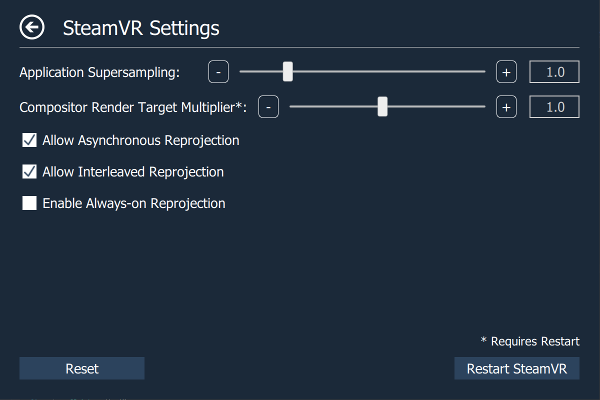
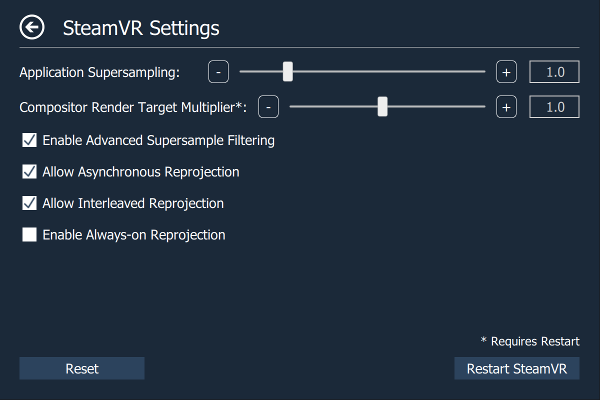
Fixed Restart SteamVR functionality (May crash the Steam overlay when SteamVR Home is running when you restart. Therefore I advice that you close SteamVR Home before restarting). Completely disabled sounds to see whether this fixes crashes some people are still experiencing. Added "Enable Advanced S

diff --git a/bin/win64/res/qml/SteamVRPage.qml b/bin/win64/res/qml/SteamVRPage.qml
@@ -40,7 +40,6 @@ MyStackViewPage {
                     steamvrSupersamplingText.text = val.toFixed(1)
                 }
                 onValueChanged: {
-                    console.debug("Supersampling Slider: valueChanged(", this.value, ")")
                     SteamVRTabController.setSuperSampling(this.value.toFixed(1), false)
                 }
             }
@@ -66,7 +65,6 @@ MyStackViewPage {
                         if (val < 0.1) {
                             val = 0.1
                         }
-                        console.debug("Supersampling TextField: valueChanged(", val, ")")
                         var v = val.toFixed(1)
                         if (v <= steamvrSupersamplingSlider.to) {
                             steamvrSupersamplingSlider.value = v
@@ -109,7 +107,6 @@ MyStackViewPage {
                     steamvrCompositorSupersamplingText.text = val.toFixed(1)
                 }
                 onValueChanged: {
-                    console.debug("Compositor Supersampling Slider: valueChanged(", this.value, ")")
                     SteamVRTabController.setCompositorSuperSampling(this.value.toFixed(1), false)
                 }
             }
@@ -136,7 +133,6 @@ MyStackViewPage {
                         if (val < 0.1) {
                             val = 0.1
                         }
-                        console.debug("Compositor Supersampling TextField: valueChanged(", val, ")")
                         var v = val.toFixed(1)
                         if (v <= steamvrCompositorSupersamplingSlider.to) {
                             steamvrCompositorSupersamplingSlider.value = v
@@ -146,6 +142,14 @@ MyStackViewPage {
                     }
                     text = SteamVRTabController.compositorSuperSampling.toFixed(1)
                 }
+            }
+        }
+
+        MyToggleButton {
+            id: steamvrAllowSupersampleFilteringToggle
+            text: "Enable Advanced Supersample Filtering"
+            onCheckedChanged: {
+                SteamVRTabController.setAllowSupersampleFiltering(this.checked, false)
             }
         }
 
@@ -217,6 +221,7 @@ MyStackViewPage {
                 steamvrCompositorSupersamplingSlider.value = s2
             }
             steamvrCompositorSupersamplingText.text = s2
+            steamvrAllowSupersampleFilteringToggle.checked = SteamVRTabController.allowSupersampleFiltering
             steamvrAllowInterleavedReprojectionToggle.checked = SteamVRTabController.allowInterleavedReprojection
             steamvrAllowAsyncReprojectionToggle.checked = SteamVRTabController.allowAsyncReprojection
             steamvrForceReprojectionToggle.checked = SteamVRTabController.forceReprojection
@@ -237,6 +242,9 @@ MyStackViewPage {
                     steamvrCompositorSupersamplingSlider.value = s2
                 }
                 steamvrCompositorSupersamplingText.text = s2
+            }
+            onAllowSupersampleFilteringChanged: {
+                steamvrAllowSupersampleFilteringToggle.checked = SteamVRTabController.allowSupersampleFiltering
             }
             onAllowInterleavedReprojectionChanged: {
                 steamvrAllowInterleavedReprojectionToggle.checked = SteamVRTabController.allowInterleavedReprojection

diff --git a/bin/win64/res/qml/MyResources.qml b/bin/win64/res/qml/MyResources.qml
@@ -5,19 +5,19 @@ import matzman666.advsettings 1.0
 
 QtObject {
 	function playActivationSound() {
-		if (!OverlayController.soundDisabled()) {
+		/*if (!OverlayController.soundDisabled()) {
 			activationSound.play()
-		}
+		}*/
 	}
 	function playFocusChangedSound() {
-		if (!OverlayController.soundDisabled()) {
+		/*if (!OverlayController.soundDisabled()) {
 			focusChangedSound.play()
-		}
+		}*/
 	}
-	property SoundEffect activationSound: SoundEffect {
+	/*property SoundEffect activationSound: SoundEffect {
 		source: vrRuntimePath + "content/panorama/sounds/activation.wav"
 	}
 	property SoundEffect focusChangedSound: SoundEffect {
 		source: vrRuntimePath + "content/panorama/sounds/focus_change.wav"
-	}
+	}*/
 }

diff --git a/src/tabcontrollers/SteamVRTabController.cpp b/src/tabcontrollers/SteamVRTabController.cpp
@@ -59,6 +59,11 @@ void SteamVRTabController::eventLoopTick() {
 			LOG(WARNING) << "Could not read \"" << vr::k_pch_SteamVR_ForceReprojection_Bool << "\" setting: " << vr::VRSettings()->GetSettingsErrorNameFromEnum(vrSettingsError);
 		}
 		setForceReprojection(fr);
+		auto sf = vr::VRSettings()->GetBool(vr::k_pch_SteamVR_Section, vrsettings_steamvr_allowSupersampleFiltering, &vrSettingsError);
+		if (vrSettingsError != vr::VRSettingsError_None) {
+			LOG(WARNING) << "Could not read \"" << vrsettings_steamvr_allowSupersampleFiltering << "\" setting: " << vr::VRSettings()->GetSettingsErrorNameFromEnum(vrSettingsError);
+		}
+		setAllowSupersampleFiltering(sf);
 		settingsUpdateCounter = 0;
 	} else {
 		settingsUpdateCounter++;
@@ -164,6 +169,25 @@ void SteamVRTabController::setForceReprojection(bool value, bool notify) {
 }
 
 
+bool SteamVRTabController::allowSupersampleFiltering() const {
+	return m_allowSupersampleFiltering;
+}
+
+
+void SteamVRTabController::setAllowSupersampleFiltering(bool value, bool notify) {
+	if (m_allowSupersampleFiltering != value) {
+		m_allowSupersampleFiltering = value;
+		vr::VRSettings()->SetBool(vr::k_pch_SteamVR_Section, vrsettings_steamvr_allowSupersampleFiltering, m_allowSupersampleFiltering);
+		vr::VRSettings()->Sync();
+		if (notify) {
+			emit allowSupersampleFilteringChanged(m_allowSupersampleFiltering);
+		}
+	}
+}
+
+
+
+
 void SteamVRTabController::reset() {
 	vr::EVRSettingsError vrSettingsError;
 
@@ -191,6 +215,11 @@ void SteamVRTabController::reset() {
 	vr::VRSettings()->RemoveKeyInSection(vr::k_pch_SteamVR_Section, vr::k_pch_SteamVR_ForceReprojection_Bool, &vrSettingsError);
 	if (vrSettingsError != vr::VRSettingsError_None) {
 		LOG(WARNING) << "Could not remove \"" << vr::k_pch_SteamVR_ForceReprojection_Bool << "\" setting: " << vr::VRSettings()->GetSettingsErrorNameFromEnum(vrSettingsError);
+	}
+
+	vr::VRSettings()->RemoveKeyInSection(vr::k_pch_SteamVR_Section, vrsettings_steamvr_allowSupersampleFiltering, &vrSettingsError);
+	if (vrSettingsError != vr::VRSettingsError_None) {
+		LOG(WARNING) << "Could not remove \"" << vrsettings_steamvr_allowSupersampleFiltering << "\" setting: " << vr::VRSettings()->GetSettingsErrorNameFromEnum(vrSettingsError);
 	}
 
 	vr::VRSettings()->Sync();

diff --git a/src/tabcontrollers/SteamVRTabController.h b/src/tabcontrollers/SteamVRTabController.h
@@ -8,6 +8,7 @@
 //static const char* vrsettings_steamvr_allowInterleavedReprojection = "allowInterleavedReprojection";
 static const char* vrsettings_compositor_category = "compositor";
 static const char* vrsettings_steamvr_supersampleScale = "supersampleScale";
+static const char* vrsettings_steamvr_allowSupersampleFiltering = "allowSupersampleFiltering";
 
 
 class QQuickWindow;
@@ -25,6 +26,7 @@ class SteamVRTabController : public QObject {
 	Q_PROPERTY(bool allowInterleavedReprojection READ allowInterleavedReprojection WRITE setAllowInterleavedReprojection NOTIFY allowInterleavedReprojectionChanged)
 	Q_PROPERTY(bool allowAsyncReprojection READ allowAsyncReprojection WRITE setAllowAsyncReprojection NOTIFY allowAsyncReprojectionChanged)
 	Q_PROPERTY(bool forceReprojection READ forceReprojection WRITE setForceReprojection NOTIFY forceReprojectionChanged)
+	Q_PROPERTY(bool allowSupersampleFiltering READ allowSupersampleFiltering WRITE setAllowSupersampleFiltering NOTIFY allowSupersampleFilteringChanged)
 
 private:
 	OverlayController* parent;
@@ -35,6 +37,7 @@ private:
 	bool m_allowInterleavedReprojection = true;
 	bool m_allowAsyncReprojection = true;
 	bool m_forceReprojection = false;
+	bool m_allowSupersampleFiltering = true;
 
 	unsigned settingsUpdateCounter = 0;
 
@@ -49,6 +52,7 @@ public:
 	bool allowInterleavedReprojection() const;
 	bool allowAsyncReprojection() const;
 	bool forceReprojection() const;
+	bool allowSupersampleFiltering() const;
 
 public slots:
 	void setSuperSampling(float value, bool notify = true);
@@ -56,6 +60,7 @@ public slots:
 	void setAllowInterleavedReprojection(bool value, bool notify = true);
 	void setAllowAsyncReprojection(bool value, bool notify = true);
 	void setForceReprojection(bool value, bool notify = true);
+	void setAllowSupersampleFiltering(bool value, bool notify = true);
 
 	void reset();
 	void restartSteamVR();
@@ -66,6 +71,7 @@ signals:
 	void allowInterleavedReprojectionChanged(bool value);
 	void allowAsyncReprojectionChanged(bool value);
 	void forceReprojectionChanged(bool value);
+	void allowSupersampleFilteringChanged(bool value);
 };
 
 } // namespace advsettings

diff --git a/src/overlaycontroller.h b/src/overlaycontroller.h
@@ -45,7 +45,7 @@ class OverlayController : public QObject {
 public:
 	static constexpr const char* applicationKey = "matzman666.AdvancedSettings";
 	static constexpr const char* applicationName = "Advanced Settings";
-	static constexpr const char* applicationVersionString = "v2.4";
+	static constexpr const char* applicationVersionString = "v2.4.1";
 
 private:
 	vr::VROverlayHandle_t m_ulOverlayHandle = vr::k_ulOverlayHandleInvalid;

diff --git a/Readme.md b/Readme.md
@@ -62,10 +62,11 @@ Executing startdesktopmode.bat from the application folder shows a window on the
 
 - **Application Supersampling**: Supersampling setting for OpenVR applications/games. Application supersampling [now behaves linearly](https://steamcommunity.com/games/250820/announcements/detail/1256913672017664045) where 2.0 means twice the number of pixel.
 - **Compositor Render Target Multiplier**: Supersampling setting for the OpenVR compositor (Requires restart). Compositor supersampling still behaves the old way where 2.0 means four-times the number of pixel.
+- **Enable Advanced Supersample Filtering**: Einable/disable image filtering on supersampled renderings.
 - **Allow Asynchronous Reprojection**: Enable/disable asynchronous reprojection.
 - **Allow Interleaved Reprojection**: Enable/disable interleaved reprojection.
 - **Force Reprojection**: Enable/disable forced reprojection.
-- **Restart SteamVR**: Restart SteamVR.
+- **Restart SteamVR**: Restart SteamVR (May crash the Steam overlay when SteamVR Home is running when you restart. Therefore I advice that you close SteamVR Home before restarting).
 
 ## - Chaperone Page:
 
